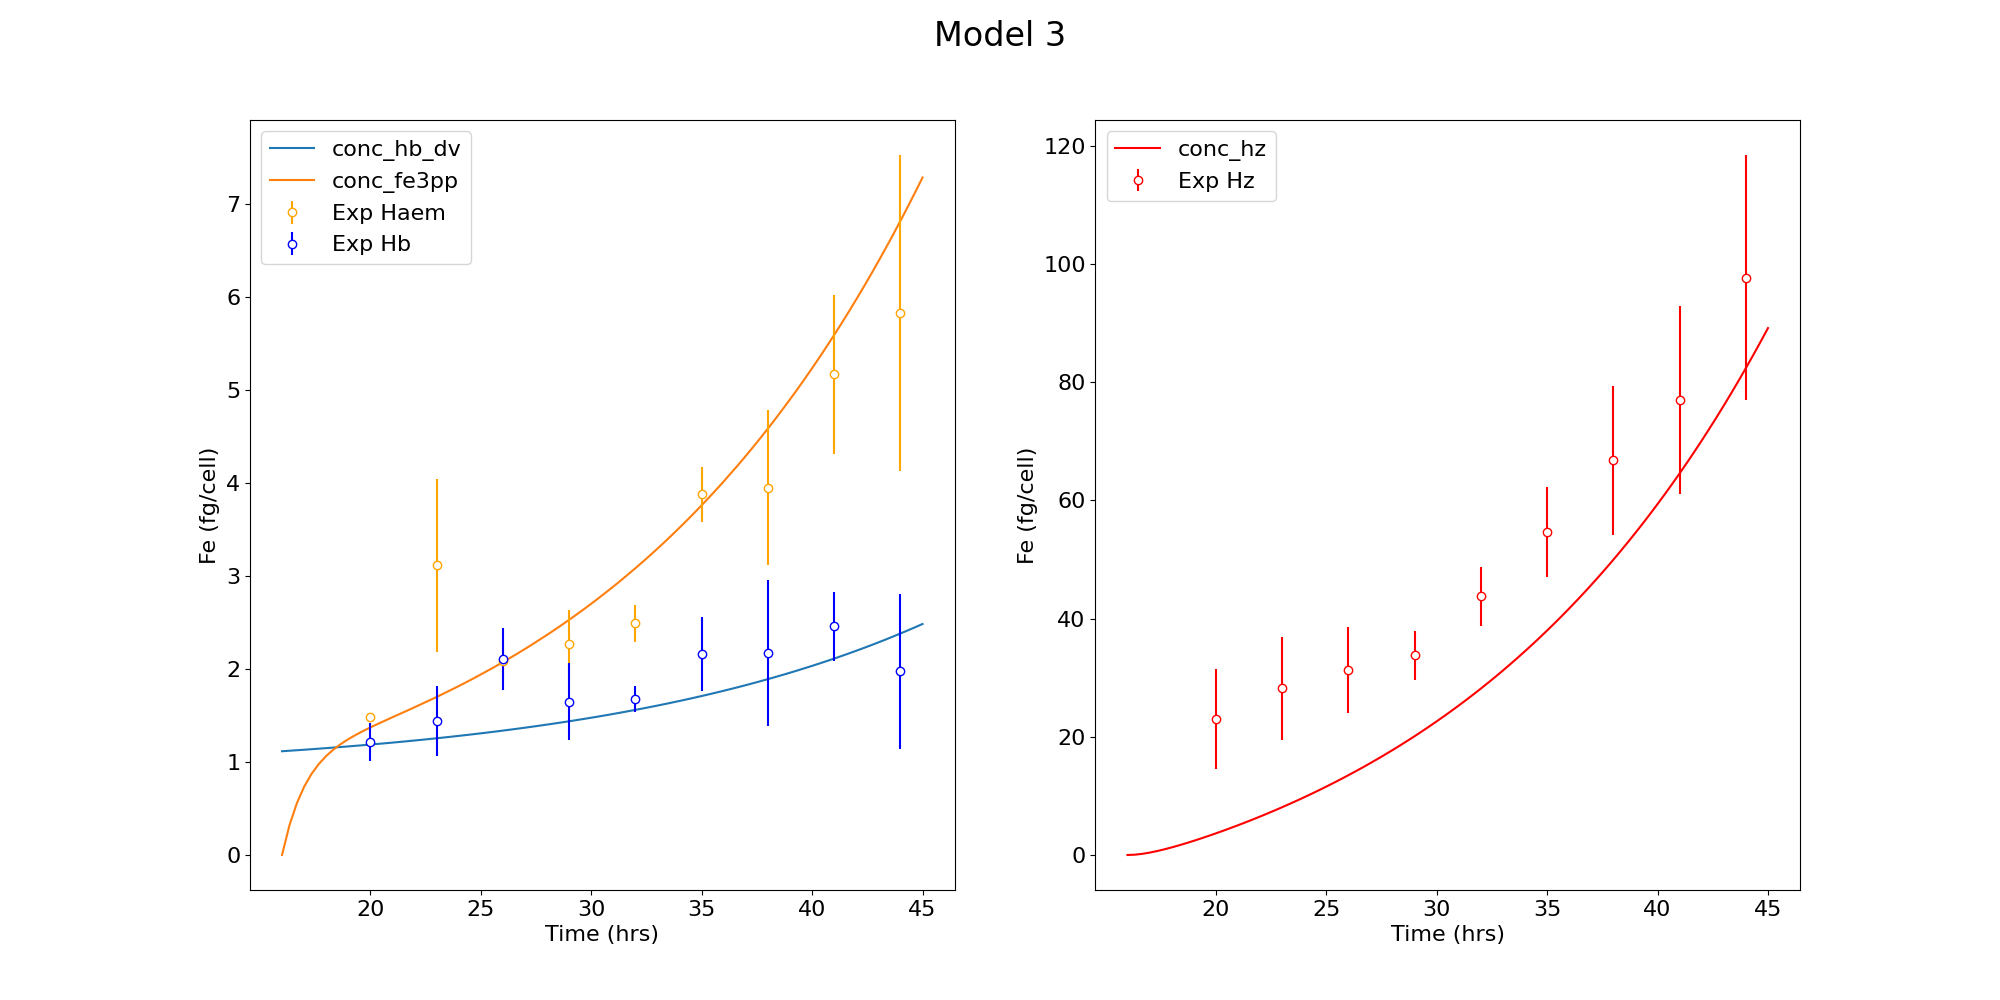
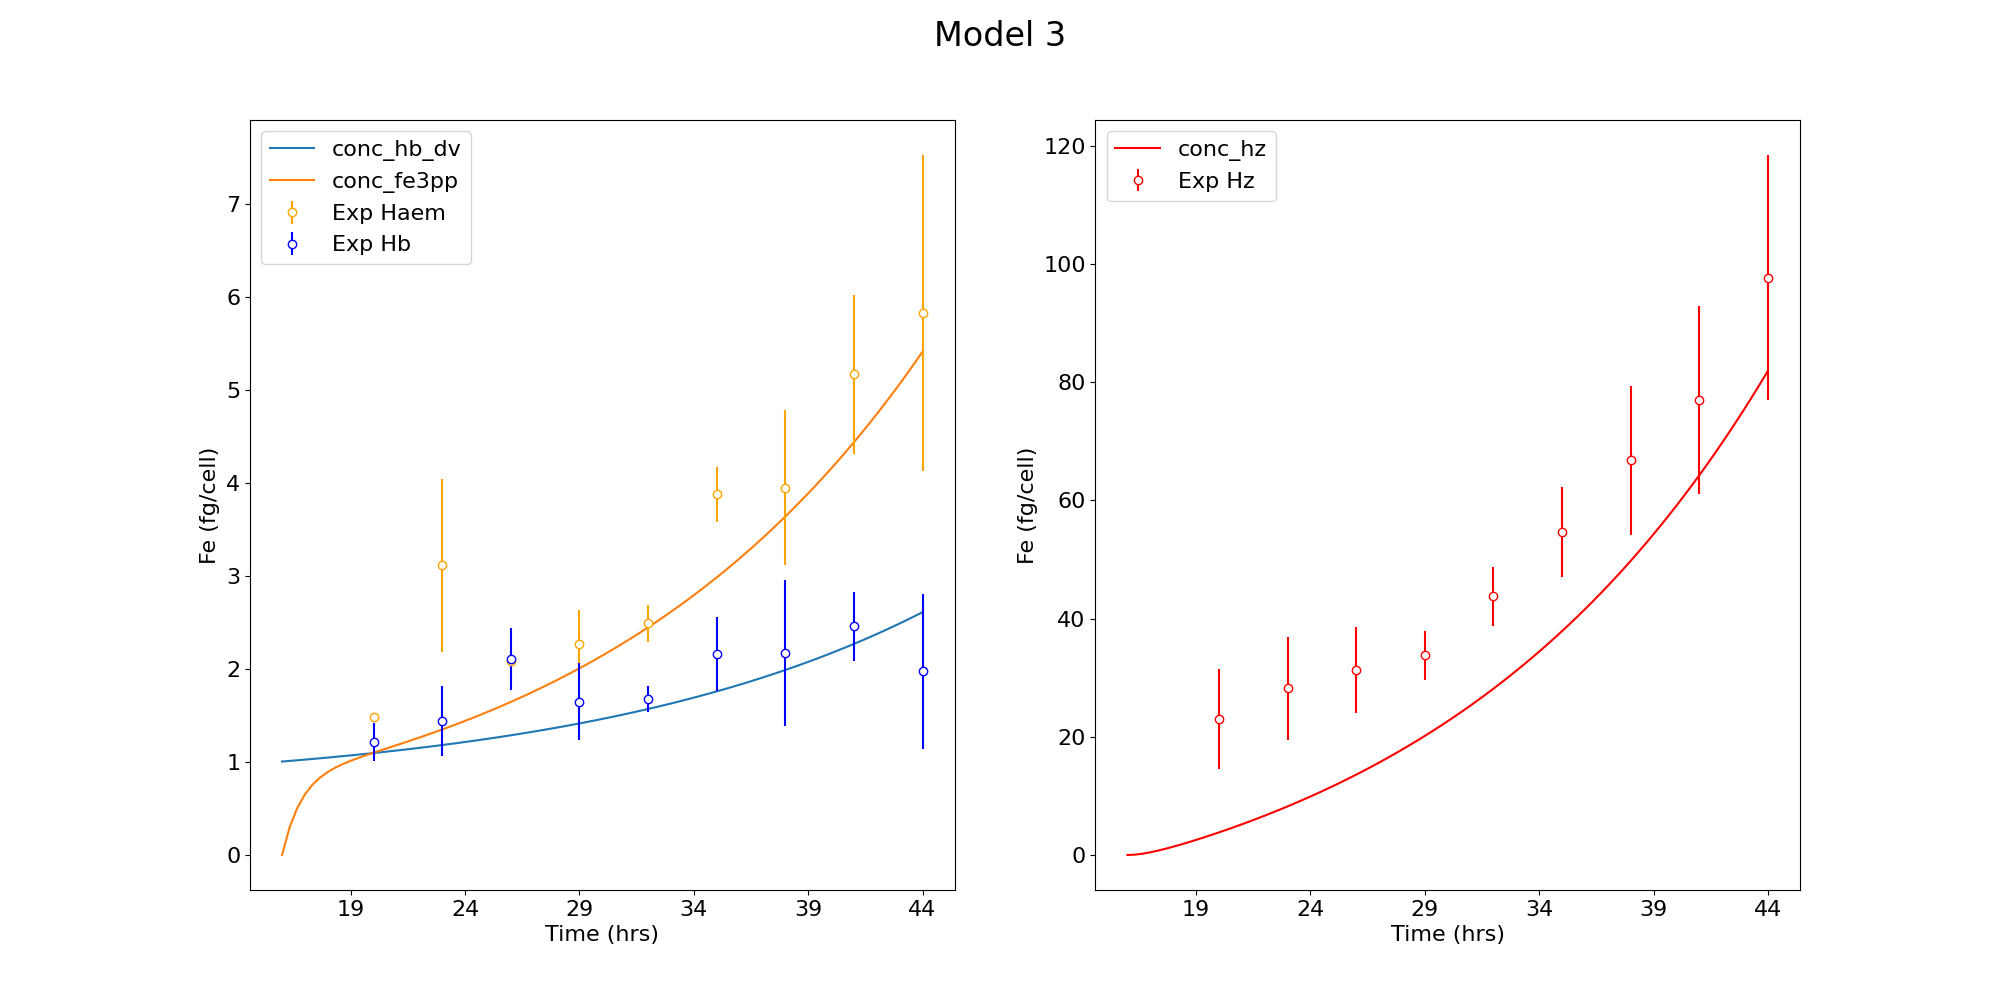
Added initial conc to HbDV. Returned to using t0 = 16hrs. Hz is not fitting well. All enzymes needed with a fudge factor of 2.5. We might need to incorporate a big gulp step. Will address in new MR

diff --git a/haem_kinetics/models/degradation.py b/haem_kinetics/models/degradation.py
@@ -54,13 +54,7 @@ class Degradation(KineticsModel):
         """
         kcat = self.const.k_enzymes[enzyme]['kcat'] * 60  # Converts s-1 to min-1
         Km = self.const.k_enzymes[enzyme]['Km']
-        print('kcat:', kcat)
-        print('Km:', Km)
         conc_enzyme = self._fraction_exp_growth(t) * self.const.conc_enzymes[enzyme] * self.const.fudge
-        # conc_enzyme =self.const.conc_enzymes[enzyme] / self.const.fudge
-        print('conc enzyme:', conc_enzyme)
-        print('conc Hb:', conc_hb_dv)
-        # conc_enzyme = self.const.conc_enzymes[enzyme] / self.const.fudge
         denom = Km + conc_hb_dv
 
         if denom == 0:
@@ -73,19 +67,15 @@ class Degradation(KineticsModel):
         Haemoglobin degradation by enzymes
         :return:
         """
-        print('****')
-        print('time:', t)
         conc_hb_dv = self.initial_values['conc_hb_dv'] / 4
 
         deg = 0
-        # for enzyme in ['plm_1', 'plm_2', 'hap', 'plm_4']:
-        for enzyme in ['plm_1', 'plm_2', 'hap']:
+        for enzyme in ['plm_1', 'plm_2', 'hap', 'plm_4']:
         # for enzyme in ['hap']:
             deg += self._calc_enzyme_rate(enzyme=enzyme,
                                           conc_hb_dv=conc_hb_dv,
                                           t=t)
         removal = 4 * deg * conc_hb_dv  # 4 * rate of Hb deg because we release 4 haems per Hb
-        print('conc fe2pp:', removal)
         return removal
 
     # def _d_hb_dv_linear(self):
@@ -117,12 +107,21 @@ class Degradation(KineticsModel):
         :param t:
         :return:
         """
-        # a = 0.1578
-        # b = 0.001102
-        a = 0.06427
-        b = 0.001036
+        a = 0.1578    # t0 = 16hrs
+        b = 0.001102  # t0 = 16hrs
+        # a = 0.06427   # t0 = 0hrs
+        # b = 0.001036  # t0 = 0hrs
 
         return a * b * (math.e ** (b * t))
+
+    @staticmethod
+    def _fraction_lin_growth():
+        """
+        Fractional linear growth
+        :param t:
+        :return:
+        """
+        return 0.0003788
 
     def _d_hb_dv_kuter(self, t):
         """
@@ -130,7 +129,6 @@ class Degradation(KineticsModel):
         :return:
         """
         tot_hb_conc = (self.const.conc_hb_rbc * self.const.vol_rbc / self.const.vol_dv)
-        # tot_hb_conc = self.const.conc_hb_rbc
         form = self._fraction_exp_growth(t) * tot_hb_conc
 
         # Removal
@@ -214,10 +212,17 @@ class Degradation(KineticsModel):
         if kwargs is False:
             kwargs = {}
 
+        # Reset the conc of Hb in RBC based on initial values supplied
+        self._set_initial_conc(init)
+        tot_init = 0
+        for _, v in self.initial_values.items():
+            tot_init += v
+        self.const.conc_hb_rbc = self.const.conc_hb_rbc - (tot_init * self.const.vol_dv / self.const.vol_rbc)
+
         # Solve the differential equations
         self.solution = solve_ivp(self._integrate, t, init, method='BDF', **kwargs)
-        # self.time = 16 + self.solution.t / 60  # In hours, offset by 16 for parasite life-cycle
-        self.time = self.solution.t / 60  # In hours
+        self.time = 16 + self.solution.t / 60  # In hours, offset by 16 for parasite life-cycle
+        # self.time = self.solution.t / 60  # In hours
         self.concentrations = pd.DataFrame(self.solution.y, columns=self.time, index=list(self.initial_values.keys())).T
         self.concentrations = self._molar_to_fgcell(df=self.concentrations)
         self.concentrations['conc_hz'] = 0.0

diff --git a/haem_kinetics/models/model3.py b/haem_kinetics/models/model3.py
@@ -39,13 +39,12 @@ class Model3(KineticsModel):
         """
         a = 0.1578
         b = 0.001102
-        # return a * b * (math.e ** (b * t))
-        return a * (math.e ** (b * t))
+        return a * b * (math.e ** (b * t))
 
     def _calc_enzyme_rate(self, enzyme, conc_hb_dv, t):
         kcat = self.const.k_enzymes[enzyme]['kcat'] * 60  # Converts s-1 to min-1
         Km = self.const.k_enzymes[enzyme]['Km']
-        conc_enzyme = self._fraction_exp_growth(t) * self.const.conc_enzymes[enzyme] / self.const.fudge
+        conc_enzyme = self._fraction_exp_growth(t) * self.const.conc_enzymes[enzyme] * self.const.fudge
         denom = Km + conc_hb_dv
 
         if denom == 0:
@@ -59,25 +58,20 @@ class Model3(KineticsModel):
         :return:
         """
         conc_hb_dv = self.initial_values['conc_hb_dv'] / 4
-        # plm_1_deg = self._calc_enzyme_rate(enzyme='plm_1',
-        #                                    conc_hb_dv=conc_hb_dv)
-        # plm_2_deg = self._calc_enzyme_rate(enzyme='plm_2',
-        #                                    conc_hb_dv=conc_hb_dv)
-        hap_deg = self._calc_enzyme_rate(enzyme='hap',
-                                         conc_hb_dv=conc_hb_dv, t=t)
-        # plm_4_deg = self._calc_enzyme_rate(enzyme='plm_4',
-        #                                    conc_hb_dv=conc_hb_dv)
-        conc_hb_dv = self.initial_values['conc_hb_dv']
-
-        # removal = (plm_1_deg + plm_2_deg + hap_deg + plm_4_deg) * conc_hb_dv
-        # removal = (plm_1_deg + plm_2_deg) * conc_hb_dv
-        removal = hap_deg * conc_hb_dv
+        deg = 0
+        for enzyme in ['plm_1', 'plm_2', 'hap', 'plm_4']:
+        # for enzyme in ['hap']:
+            deg += self._calc_enzyme_rate(enzyme=enzyme,
+                                          conc_hb_dv=conc_hb_dv,
+                                          t=t)
+        removal = 4 * deg * conc_hb_dv
         return removal
 
     def _d_hb_dv(self, t):
 
         # Formation
-        form = self._fraction_exp_growth(t) * self.const.conc_hb_rbc / 40  # Need to investigate this (40)
+        tot_hb_conc = (self.const.conc_hb_rbc * self.const.vol_rbc / self.const.vol_dv)
+        form = self._fraction_exp_growth(t) * tot_hb_conc
 
         # Removal
         remove = self._hb_removal(t)
@@ -163,11 +157,18 @@ class Model3(KineticsModel):
         if kwargs is False:
             kwargs = {}
 
+        # Reset the conc of Hb in RBC based on initial values supplied
+        self._set_initial_conc(init)
+        tot_init = 0
+        for _, v in self.initial_values.items():
+            tot_init += v
+        self.const.conc_hb_rbc = self.const.conc_hb_rbc - (tot_init * self.const.vol_dv / self.const.vol_rbc)
+
         # Solve the differential equations
         self.solution = solve_ivp(self._integrate, t, init, **kwargs)
-        self.time = 16 + self.solution.t / 60  # In hours, offset by 16 for parasite life-cycle
+        self.time = 16 + self.solution.t / 60  # In hours
         self.concentrations = pd.DataFrame(self.solution.y, columns=self.time, index=list(self.initial_values.keys())).T
-        self.concentrations = self.concentrations * 1000 * 0.2232  # convert to fg/cell
+        self.concentrations = self._molar_to_fgcell(self.concentrations)  # convert to fg/cell
 
         # Plot graph
         if plot:

diff --git a/haem_kinetics/models/model1.py b/haem_kinetics/models/model1.py
@@ -12,7 +12,7 @@ class Model1(KineticsModel):
     This is the simplest model to simulate haemoglobin catabolism in the malaria parasite.
     In this case, we have assumed:
      * Linear transport of Hb into the DV
-     * Hb enzymatic degradation is rate-limited by HAP
+     * Hb enzymatic degradation is constant (all enzymes)
      * There is fudge factor to lower enzyme concentration or kcat.
      * O2- is effectively 0 M given the presence of SOD, thus the reduction of Fe(III)PP is ignored.
     """
@@ -44,19 +44,12 @@ class Model1(KineticsModel):
         :return:
         """
         conc_hb_dv = self.initial_values['conc_hb_dv'] / 4
-        # plm_1_deg = self._calc_enzyme_rate(enzyme='plm_1',
-        #                                    conc_hb_dv=conc_hb_dv)
-        # plm_2_deg = self._calc_enzyme_rate(enzyme='plm_2',
-        #                                    conc_hb_dv=conc_hb_dv)
-        hap_deg = self._calc_enzyme_rate(enzyme='hap',
-                                         conc_hb_dv=conc_hb_dv)
-        # plm_4_deg = self._calc_enzyme_rate(enzyme='plm_4',
-        #                                    conc_hb_dv=conc_hb_dv)
-        conc_hb_dv = self.initial_values['conc_hb_dv']
-
-        # removal = (plm_1_deg + plm_2_deg + hap_deg + plm_4_deg) * conc_hb_dv
-        # removal = (plm_1_deg + plm_2_deg) * conc_hb_dv
-        removal = hap_deg * conc_hb_dv
+        deg = 0
+        for enzyme in ['plm_1', 'plm_2', 'hap', 'plm_4']:
+        # for enzyme in ['hap']:
+            deg += self._calc_enzyme_rate(enzyme=enzyme,
+                                          conc_hb_dv=conc_hb_dv)
+        removal = 4 * deg * conc_hb_dv
         return removal
 
     def _d_hb_dv(self):
@@ -146,11 +139,17 @@ class Model1(KineticsModel):
         if kwargs is False:
             kwargs = {}
 
+        # Reset the conc of Hb in RBC based on initial values supplied
+        self._set_initial_conc(init)
+        tot_init = 0
+        for _, v in self.initial_values.items():
+            tot_init += v
+        self.const.conc_hb_rbc = self.const.conc_hb_rbc - (tot_init * self.const.vol_dv / self.const.vol_rbc)
+
         # Solve the differential equations
         self.solution = solve_ivp(self._integrate, t, init, **kwargs)
         self.time = 16 + self.solution.t / 60  # In hours, offset by 16 for parasite life-cycle
         self.concentrations = pd.DataFrame(self.solution.y, columns=self.time, index=list(self.initial_values.keys())).T
-        # self.concentrations = self.concentrations * 1000 * 0.2232  # convert to fg/cell
         self.concentrations = self._molar_to_fgcell(df=self.concentrations)
 
         # Plot graph

diff --git a/haem_kinetics/models/model2.py b/haem_kinetics/models/model2.py
@@ -21,7 +21,7 @@ class Model2(KineticsModel):
         super().__init__(model_name=model_name)
 
         # Initialise concentrations
-        self._set_initial_conc(init=[0.005, 0.0, 0.0, 0.0])
+        self._set_initial_conc(init=[0.000, 0.0, 0.0, 0.0])
 
         # Set Experimental data
         self.exp_data = ExperimentalData()
@@ -45,19 +45,12 @@ class Model2(KineticsModel):
         :return:
         """
         conc_hb_dv = self.initial_values['conc_hb_dv'] / 4
-        # plm_1_deg = self._calc_enzyme_rate(enzyme='plm_1',
-        #                                    conc_hb_dv=conc_hb_dv)
-        # plm_2_deg = self._calc_enzyme_rate(enzyme='plm_2',
-        #                                    conc_hb_dv=conc_hb_dv)
-        hap_deg = self._calc_enzyme_rate(enzyme='hap',
-                                         conc_hb_dv=conc_hb_dv)
-        # plm_4_deg = self._calc_enzyme_rate(enzyme='plm_4',
-        #                                    conc_hb_dv=conc_hb_dv)
-        conc_hb_dv = self.initial_values['conc_hb_dv']
-
-        # removal = (plm_1_deg + plm_2_deg + hap_deg + plm_4_deg) * conc_hb_dv
-        # removal = (plm_1_deg + plm_2_deg) * conc_hb_dv
-        removal = hap_deg * conc_hb_dv
+        deg = 0
+        for enzyme in ['plm_1', 'plm_2', 'hap', 'plm_4']:
+        # for enzyme in ['hap']:
+            deg += self._calc_enzyme_rate(enzyme=enzyme,
+                                          conc_hb_dv=conc_hb_dv)
+        removal = 4 * deg * conc_hb_dv
         return removal
 
     def _d_hb_dv(self):
@@ -149,11 +142,18 @@ class Model2(KineticsModel):
         if kwargs is False:
             kwargs = {}
 
+        # Reset the conc of Hb in RBC based on initial values supplied
+        self._set_initial_conc(init)
+        tot_init = 0
+        for _, v in self.initial_values.items():
+            tot_init += v
+        self.const.conc_hb_rbc = self.const.conc_hb_rbc - (tot_init * self.const.vol_dv / self.const.vol_rbc)
+
         # Solve the differential equations
         self.solution = solve_ivp(self._integrate, t, init, **kwargs)
         self.time = 16 + self.solution.t / 60  # In hours, offset by 16 for parasite life-cycle
         self.concentrations = pd.DataFrame(self.solution.y, columns=self.time, index=list(self.initial_values.keys())).T
-        self.concentrations = self.concentrations * 1000 * 0.2232  # convert to fg/cell
+        self.concentrations = self._molar_to_fgcell(self.concentrations)  # convert to fg/cell
 
         # Plot graph
         if plot:

diff --git a/examples/run.py b/examples/run.py
@@ -6,18 +6,21 @@ from haem_kinetics.models.degradation import Degradation
 
 
 t_start = 0   # min
-t_end = 2700  # min
+t_end = 1700  # min
 t_step = 20   # min
+init = [0.018,  # Hb-DV: conc in DV, corresponds to 2E-4 M in cell
+        0.0,    # Fe2PP
+        0.0,    # Fe3PP
+        0.0]    # Hz
 
-# model = Model1()
-# model.run(t=[t_start, t_end], init=[0.005, 0.0, 0.0, 0.0], t_eval=range(t_start, t_end, t_step), plot='test.png')
-#
-model = Degradation()
-model.run(t=[t_start, t_end], init=[0.0, 0.0], t_eval=range(t_start, t_end, t_step), plot='test.png')
+model = Model1()
+model.run(t=[t_start, t_end], init=init[:4], t_eval=range(t_start, t_end, t_step), plot='test.png')
+
+# model = Degradation()
+# model.run(t=[t_start, t_end], init=init[:2], t_eval=range(t_start, t_end, t_step), plot='test.png')
 
 # print(model.initial_values)
 # print(model.differential_eqs)
 # print(model.time)
 print(model.concentrations)
-model.concentrations.to_csv('concentrations.tsv', sep='\t')
-
+# model.concentrations.to_csv('concentrations.tsv', sep='\t')

diff --git a/haem_kinetics/components/constants.py b/haem_kinetics/components/constants.py
@@ -6,7 +6,7 @@ class Constants:
         # Miscellaneous Constants
         # -------------------------------------------------------------------------------------
         self.avogadro = 6.022e23
-        self.fudge = 2.9  # Fudge factor
+        self.fudge = 2.5  # Fudge factor
 
         # - Volumes
         self.vol_rbc = 90e-15  # Volume of RBC is 90 fL, reported here in L
@@ -50,7 +50,7 @@ class Constants:
         self.k_fe3pp_red = 180e-9
         # - Rate of haemozoin formation
         #   https://link.springer.com/article/10.1186/1475-2875-11-337
-        self.k_hz = 0.12  # min-1
+        self.k_hz = 0.15  # min-1
         # - Enzyme rate constants
         #   1. https://www.sciencedirect.com/science/article/pii/0166685196026515
         #   2. https://www.sciencedirect.com/science/article/abs/pii/S0731708503005661

diff --git a/haem_kinetics/models/base.py b/haem_kinetics/models/base.py
@@ -85,8 +85,7 @@ class KineticsModel:
 
         I.e. concentration M is actually M/cell, etc.
 
-        mol/L -> fg/L: mol * 10^15 * mw of Fe
-        fg/L -> fg: fg/L * volume of DV
+        mol/cell -> fg/cell: mol * 10^15 * mw of Fe
 
         :param df: Dataframe of concentrations in molar
         """
